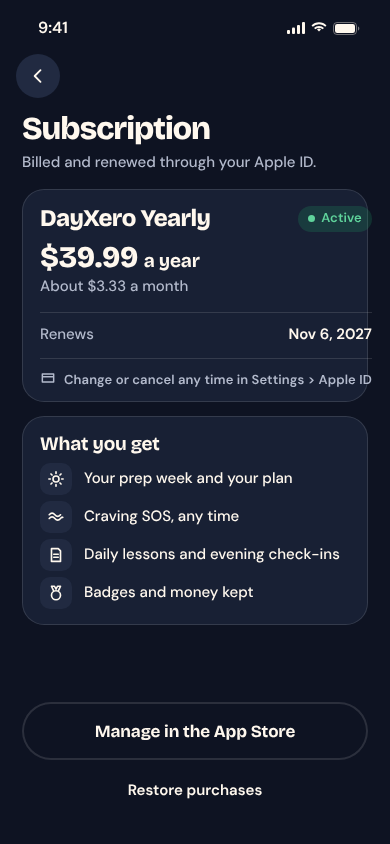
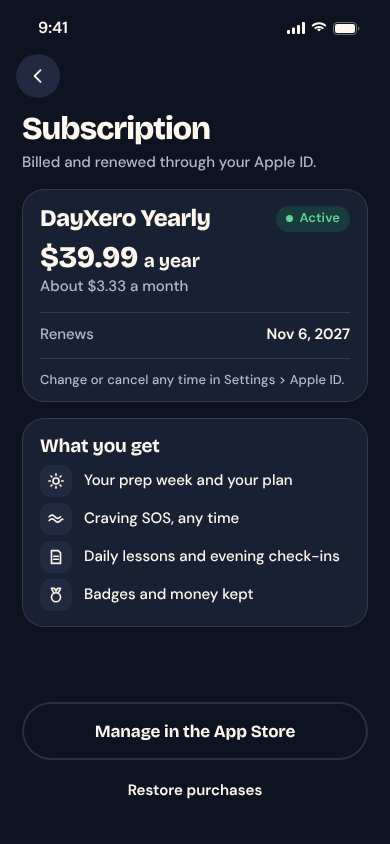
Rounds 8-9 work in progress
Claude-Session: https://claude.ai/code/session_01DZ7ApmrncqosUtJWfkxY6v

diff --git a/cook/site/screens/068-settings-subscription.html b/cook/site/screens/068-settings-subscription.html
@@ -18,7 +18,7 @@
 .pill { height: 34px; padding: 0 12px; border-radius: 11px; background: var(--card-2); display: inline-flex; align-items: center; font: 600 15px/1 var(--body); color: var(--fg); white-space: nowrap; font-variant-numeric: tabular-nums; }
 
 /* Plan card hierarchy: plan name (the title) with its Active status, the price, then one quiet renews row and the how-to-cancel line. */
-.plan { margin-top: 16px; padding: 16px 18px 0; display: grid; gap: 0; }
+.plan { margin-top: 16px; padding: 16px 18px 0; display: grid; grid-template-columns: minmax(0, 1fr); gap: 0; }
 .plan .ph { display: flex; align-items: center; justify-content: space-between; gap: 12px; }
 .status { display: inline-flex; align-items: center; gap: 6px; height: 26px; padding: 0 10px; border-radius: 99px; color: #17804F; background: color-mix(in srgb, #1F9D63 12%, transparent); }
 [data-theme="dark"] .status { color: #5FD39B; background: color-mix(in srgb, #1F9D63 22%, transparent); }
@@ -28,9 +28,8 @@
 .plan .per { margin-top: 4px; }
 .plan .kv { display: flex; justify-content: space-between; align-items: center; min-height: 46px; margin-top: 14px; border-top: 1px solid var(--line); }
 .plan .kv .v { font-weight: 600; }
-.plan .howto { display: flex; gap: 8px; align-items: center; min-height: 44px; border-top: 1px solid var(--line); color: var(--muted); white-space: nowrap; }
-.plan .howto svg { width: 16px; height: 16px; flex: none; }
-.get { margin-top: 14px; padding: 16px 18px 16px; display: grid; gap: 6px; }
+.plan .howto { display: flex; align-items: center; min-height: 44px; border-top: 1px solid var(--line); color: var(--muted); font-weight: 500; }
+.get { margin-top: 16px; padding: 16px 18px 16px; display: grid; gap: 6px; }
 .get .it { display: flex; align-items: center; gap: 12px; min-height: 32px; }
 .get .it .ico-tile { width: 32px; height: 32px; border-radius: 10px; }
 .get .it .ico-tile svg { width: 18px; height: 18px; }
@@ -46,7 +45,7 @@
     <div class="price"><span class="num" data-count="39.99" data-dec="2" data-prefix="$">$39.99</span><span class="t-head">a year</span></div>
     <p class="t-foot muted per">About $3.33 a month</p>
     <div class="kv" data-fade style="--d:450ms"><span class="t-foot muted">Renews</span><span class="t-foot v">Nov 6, 2027</span></div>
-    <p class="t-cap howto" data-fade style="--d:540ms"><span data-ic="card" data-s="16"></span>Change or cancel any time in Settings &gt; Apple ID</p>
+    <p class="t-cap howto" data-fade style="--d:540ms">Change or cancel any time in Settings &gt; Apple ID.</p>
   </div>
   <div class="card get" data-a style="--i:3">
     <div class="t-head" style="margin-bottom:2px">What you get</div>

diff --git a/cook/site/screens/016-today-quit.html b/cook/site/screens/016-today-quit.html
@@ -110,7 +110,7 @@
   const sc = $('#scene');
   sc.innerHTML = dark
     /* dark: the kit's soft dawn glow moves up behind the badge as its halo (its sun disc stays hidden behind the medal) */
-    ? sc.innerHTML.replace(/<circle cx="195" cy="281\.9" r="96" fill="url\(#dg/, '<circle cx="195" cy="200" r="132" fill="url(#dg').replace(/<circle cx="195" cy="281\.9" r="22" fill="#FFD27A"[^>]*>(?:<\/circle>)?/, '')
+    ? sc.innerHTML.replace(/<circle cx="195" cy="281\.9" r="96" fill="url\(#dg/, '<circle cx="195" cy="200" r="96" fill="url(#dg').replace(/<circle cx="195" cy="281\.9" r="22" fill="#FFD27A"[^>]*>(?:<\/circle>)?/, '')
         .replace(/(<rect y="334" width="390" height="70" fill="url\(#g)/, knoll + '$1')
     : sc.innerHTML.replace(/(<path filter="url\(#h2Lift_\d+\)" d="M0 282 C90 267)/, `<g transform="translate(55.198 0) scale(0.742574)">${knoll}</g>$1`);
   const xero = mood => DX.char('xero', { mood, size: 100, stage: 2 });
